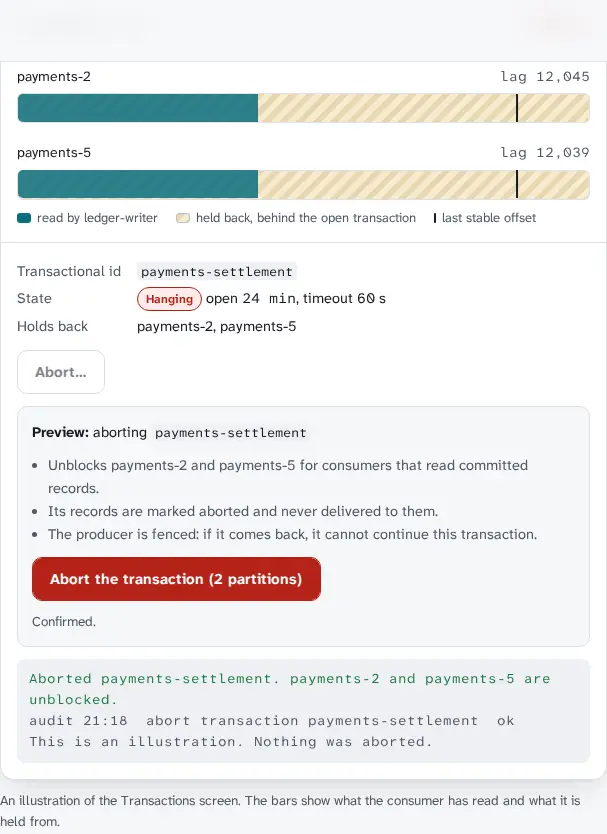
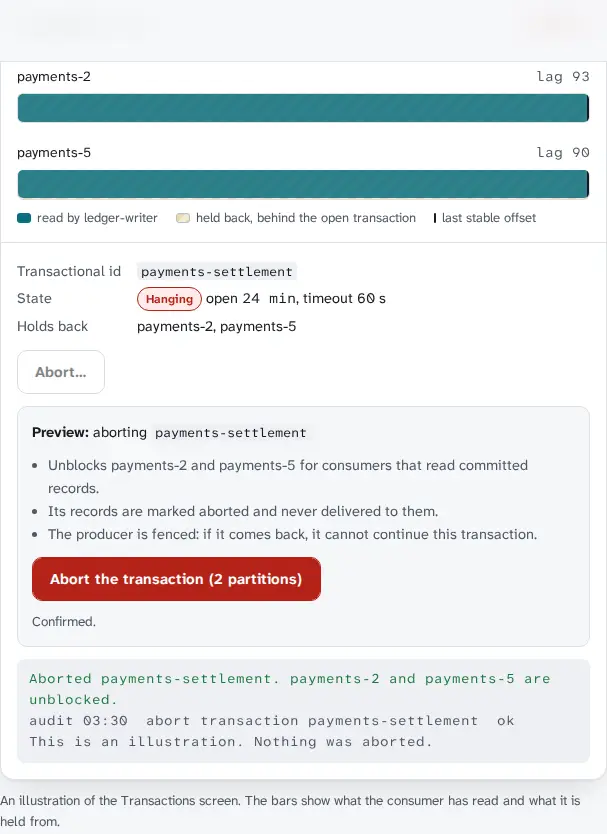
docs(site): show the real screens of the night on the home page
A gallery after the story shows seven captures from a live estate of
six Artemis nodes and three Kafka brokers, in the reader's colour
scheme: the estate, a group's lag, an offset reset's preview, the held
reset as the approver sees it, a hanging transaction's abort preview,
the registration check, and the Artemis topology.

Changed region(s): [[0.4152, 0.0624, 0.9786, 0.2494], [0.1779, 0.8417, 0.2076, 0.8729]]

diff --git a/site/src/public/index.html b/site/src/public/index.html
@@ -314,7 +314,14 @@ tr.sel td:first-child { box-shadow: inset 3px 0 var(--accent); }
 @media (max-width: 760px) { .rules { grid-template-columns: 1fr; } }
 .rules p { color: var(--muted); margin: 6px 0 0; }
 
-/* ── real screens (filled from the screenshot sweep) ── */
+/* ── real screens: captures from a live estate, one at a time ── */
+.tabs { display: flex; flex-wrap: wrap; gap: 6px; margin-block: 28px 16px; }
+.tabs [role="tab"] { min-height: 40px; padding: .45em .95em; border-radius: 999px; border: 1px solid var(--line); background: transparent; color: var(--muted); font: 600 14.5px/1.2 var(--sans); cursor: pointer; transition: background-color 160ms ease, color 160ms ease, border-color 160ms ease; }
+.tabs [role="tab"][aria-selected="true"] { background: var(--ink); border-color: var(--ink); color: var(--bg); }
+@media (hover: hover) and (pointer: fine) { .tabs [role="tab"]:hover:not([aria-selected="true"]) { color: var(--ink); border-color: var(--line-strong); } }
+.shot { margin: 0; }
+.shot .frame { background: var(--surface); border: 1px solid var(--line); border-radius: 14px; box-shadow: var(--shadow); overflow: hidden; }
+.shot figcaption { margin-block-start: 12px; color: var(--muted); font-size: 15px; min-height: 3em; }
 .shot img { display: block; width: 100%; height: auto; aspect-ratio: 16 / 10; object-fit: cover; object-position: top left; }
 .shot .s-dark { display: none; }
 :root[data-theme="dark"] .shot .s-light { display: none; }
@@ -428,7 +435,7 @@ footer nav { display: flex; flex-wrap: wrap; gap: 6px 18px; }
             </div>
             <div class="breakdown" id="breakdown" aria-live="polite"></div>
           </div>
-          <figcaption>An illustration of Rahdar's estate and its backlog breakdown, drawn in the page. Real screens are linked from the guides.</figcaption>
+          <figcaption>An illustration of Rahdar's estate and its backlog breakdown, drawn in the page. The real screens follow the story.</figcaption>
         </figure>
       </div>
     </div>
@@ -617,6 +624,22 @@ footer nav { display: flex; flex-wrap: wrap; gap: 6px 18px; }
   </div>
 </section>
 </div>
+
+<!-- ── the real screens ── -->
+<section class="entry" id="screens" aria-labelledby="screens-h">
+  <div class="wrap" style="display:block">
+    <h2 id="screens-h">The same night, in the real screens.</h2>
+    <p class="lede" style="margin-block-start:16px">Captured from a live estate of six Artemis nodes and three Kafka brokers with traffic running, shown in your colour scheme.</p>
+    <div class="tabs" role="tablist" aria-label="Screens" id="shot-tabs"></div>
+    <div role="tabpanel" id="shot-panel" tabindex="0"><figure class="shot">
+      <div class="frame">
+        <img class="s-light" id="shot-light" width="1600" height="1000" loading="lazy" decoding="async" alt="">
+        <img class="s-dark" id="shot-dark" width="1600" height="1000" loading="lazy" decoding="async" alt="">
+      </div>
+      <figcaption id="shot-cap"></figcaption>
+    </figure></div>
+  </div>
+</section>
 
 <!-- ── the systems ── -->
 <section class="entry" id="systems" aria-labelledby="systems-h">
@@ -926,6 +949,41 @@ footer nav { display: flex; flex-wrap: wrap; gap: 6px 18px; }
   // ── the assistant's calls appear in the order they were made, once ──
   const chat = $('#chat');
   if (!reduced) visible(chat, (v) => { if (v) { chat.classList.remove('armed'); chat.classList.add('play'); } }, 0.4);
+
+  // ── the real screens: one tab per capture, light and dark from the same state ──
+  const SHOTS = [
+    ['estate', 'Estate', 'readme/estate', 'Both clusters with their health, and every subscription sorted by backlog. Kafka groups read ≈, an estimate.', 'The estate: an Apache Artemis cluster and an Apache Kafka cluster with their health, above one table of subscriptions sorted by backlog, where Kafka lag is marked as an estimate.'],
+    ['lag', 'Lag', 'readme/subscriptions', "A group's backlog opened: every partition, slowest first, with the sample's age.", "A Kafka group's backlog breakdown: each partition's lag, committed offset and end offset, slowest first."],
+    ['reset', 'Reset preview', 'readme/offset-reset', 'An offset reset previewed per partition, confirmed by holding a button that names the partitions.', "The reset-offsets preview: each partition's current and new offset and the records skipped, with a press-and-hold button."],
+    ['approval', 'Approval', 'home/approval', 'The held reset as the second person sees it: what will happen, who asked, and Approve or Reject.', 'A request waiting for approval: reset offsets of group analytics to latest, with the six partitions it affects, the requester, the policy and the Approve and Reject buttons.'],
+    ['txn', 'Transaction', 'readme/transactions', 'A hanging transaction, and the abort previewed: the partitions it unblocks and the producer fenced.', 'The abort preview of a hanging transaction, naming the partitions it unblocks and that the producer is fenced, with a press-and-hold button.'],
+    ['register', 'Registration', 'readme/register-kafka', 'Registering a Kafka cluster: the check reaches every broker on the address it advertises.', 'The Kafka registration page after a passed check: the version and mode, and every broker reached on its advertised address.'],
+    ['topology', 'Artemis topology', 'readme/artemis-topology', 'The Artemis pairs, with the serving node asked of every node on every cycle.', 'The Artemis topology: primary and backup pairs with their replication state, one node unreachable.'],
+  ];
+  const tabsEl = $('#shot-tabs'), light = $('#shot-light'), dark = $('#shot-dark');
+  tabsEl.innerHTML = SHOTS.map(([id, name], i) =>
+    `<button type="button" role="tab" id="tab-${id}" aria-controls="shot-panel" aria-selected="${i === 0}" tabindex="${i === 0 ? 0 : -1}">${name}</button>`).join('');
+  const tabs = [...tabsEl.children];
+  const show = (i, focus) => {
+    const [id, , src, cap, alt] = SHOTS[i];
+    tabs.forEach((t, k) => { t.setAttribute('aria-selected', String(k === i)); t.tabIndex = k === i ? 0 : -1; });
+    if (focus) tabs[i].focus();
+    $('#shot-panel').setAttribute('aria-labelledby', `tab-${id}`);
+    light.src = `/img/${src}-light.webp`; dark.src = `/img/${src}-dark.webp`;
+    light.alt = dark.alt = alt;
+    $('#shot-cap').textContent = cap;
+    // A short fade so one screen does not snap into the next; none under reduced motion.
+    if (!reduced) [light, dark].forEach((img) => img.animate([{ opacity: 0.25 }, { opacity: 1 }], { duration: 180, easing: 'ease-out' }));
+  };
+  tabsEl.addEventListener('click', (e) => { const i = tabs.indexOf(e.target.closest('[role="tab"]')); if (i >= 0) show(i, false); });
+  tabsEl.addEventListener('keydown', (e) => {
+    const i = tabs.indexOf(document.activeElement);
+    const next = { ArrowRight: i + 1, ArrowLeft: i - 1, Home: 0, End: tabs.length - 1 }[e.key];
+    if (next === undefined) return;
+    e.preventDefault();
+    show((next + tabs.length) % tabs.length, true);
+  });
+  show(0, false);
 
   // ── copy the install commands ──
   $('#copy').addEventListener('click', async (e) => {
